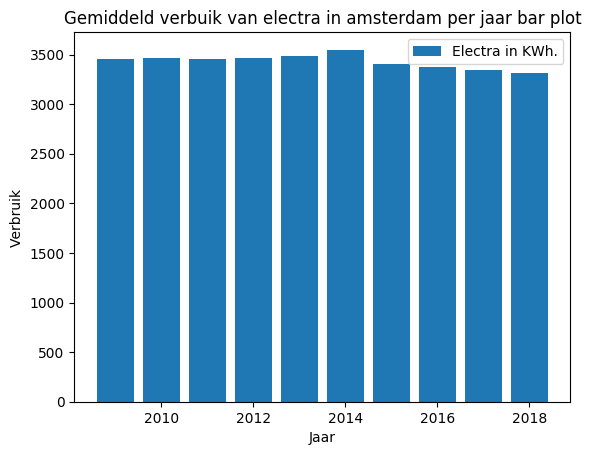
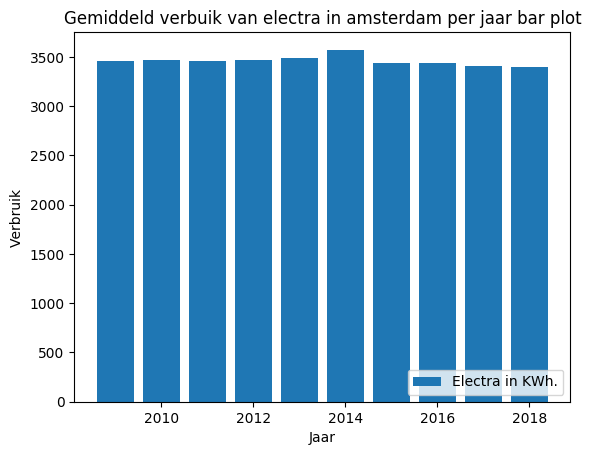
Scale plots by teruglevering and add opgewekte energy plot

diff --git a/python/process_yearly_energy.py b/python/process_yearly_energy.py
@@ -9,6 +9,8 @@ data_path = get_data_path('processed')
 with open(data_path + '/average_yearly_elk_usage_2009_2018.pickle', 'rb') as fl:
     elc_data = pl.load(fl)
 
+with open(data_path + '/scaled_average_yearly_elk_usage_2009_2018.pickle', 'rb') as fl:
+    scaled_elc_data = pl.load(fl)
 
 with open(data_path + '/average_yearly_gas_usage_2009_2018.pickle', 'rb') as fl:
     gas_data = pl.load(fl)
@@ -48,15 +50,16 @@ def save_dict_bar_plot(dict_list, title, plot_names_list, axis_labels):
         plt.bar(x, y, label = plot_names_list[i])
     plt.xlabel(axis_labels[0])
     plt.ylabel(axis_labels[1])
-    plt.legend()
+    plt.legend(loc = 'lower right')
     plt.title(title)
     plt.savefig(save_location + 'week2/' + title, bbox_inches='tight')
     plt.close()
 
 # example usage
-# save_dict_bar_plot([elc_data, gas_data], 'Gemiddeld verbuik van gas en electra in amsterdam per jaar bar plot', ['Electra in KWh', 'Gas in m^3'], ['Jaar', 'Verbruik'])
+# save_dict_bar_plot([scaled_elc_data, gas_data], 'Gemiddeld verbuik van gas en electra in amsterdam per jaar bar plot', ['Electra in KWh', 'Gas in m^3'], ['Jaar', 'Verbruik'])
 # save_dict_bar_plot([gas_data], 'Gemiddeld verbuik van gas in amsterdam per jaar bar plot', ['Gas in m^3'], ['Jaar', 'Verbruik'])
-# save_dict_bar_plot([elc_data], 'Gemiddeld verbuik van electra in amsterdam per jaar bar plot', ['Electra in KWh.'], ['Jaar', 'Verbruik'])
+# save_dict_bar_plot([scaled_elc_data], 'Gemiddeld verbuik van electra in amsterdam per jaar bar plot', ['Electra in KWh.'], ['Jaar', 'Verbruik'])
+# save_dict_bar_plot([scaled_elc_data, elc_data], 'Gemiddeld verbuik en levering van electra in amsterdam per jaar', ['Electra totaal','Electra geleverd'], ['Jaar', 'Verbruik electra KWh'])
 
 
 def save_hist_plot(data_name, title, x_label):
@@ -74,11 +77,11 @@ def save_hist_plot(data_name, title, x_label):
     plt.savefig(save_location + 'week2/' + title, bbox_inches='tight')    
     plt.close()
 
-# save_hist_plot('elk_per_aansluiting2018.pickle', 'Electra per aansluiting 2018', 'Verbruik per aansluiting in KWh')
+# save_hist_plot('elk_per_aansluiting2018.pickle', 'Electra geleverd per aansluiting 2018', 'Geleverde electra per aansluiting in KWh')
 # save_hist_plot('gas_per_aansluiting2018.pickle', 'Gas verbruik per aansluiting 2018', 'Verbruik per aansluiting in m^3')
 
 # logarithm of consumption
-# save_hist_plot('log_elk_per_aansluiting2018.pickle', 'Logaritme electra per aansluiting 2018', 'log(verbruik) per aansluiting in KWh')
+# save_hist_plot('log_elk_per_aansluiting2018.pickle', 'Logaritme geleverde electra per aansluiting 2018', 'log(geleverd) per aansluiting in KWh')
 # save_hist_plot('log_gas_per_aansluiting2018.pickle', 'Logaritme gas verbruik per aansluiting 2018', 'log(verbruik) per aansluiting in m^3')
 
 def plot_two_scales(dict_one, dict_two, labels):
@@ -89,7 +92,7 @@ def plot_two_scales(dict_one, dict_two, labels):
     x_r = np.array(x_r) - 1
     fig, ax1 = plt.subplots()
     
-    ax1.plot(x_l, y_l, 'b-')
+    ax1.bar(x_l, y_l)
     ax1.set_xlabel('year')
     # Make the y-axis label, ticks and tick labels match the line color.
     ax1.set_ylabel(labels[0], color='b')
@@ -104,8 +107,16 @@ def plot_two_scales(dict_one, dict_two, labels):
     plt.title('Gemiddelde temperatuur en gasverbruik 2008 - 2017')
     plt.show()
 
+def plot_difference(dict_one, dict_two, title, plot_names, axis):
+    difference = {}
+    for key in dict_one:
+        difference[key] = dict_one[key] - dict_two[key]
+    save_dict_bar_plot([difference], title, plot_names, axis)
+
+
 with open(data_path + '/gemiddelde_temperatuur_2008_2017.pickle', 'rb') as fl:
     temp_data = pl.load(fl)
 
+plot_difference(scaled_elc_data, elc_data, "Gemiddelde Opgewekte energy per jaar", ["Verschil electra totaal min geleverd"], ["Jaar", "Opgewekte electra KWh"])
 
-plot_two_scales(temp_data, gas_data, ['Jaarlijks gemiddelde temperatuur Schiphol graden Celcius','Jaarlijks gemiddeld gas verbruik Amsterdam in m^3'])
+# plot_two_scales(temp_data, gas_data, ['Jaarlijks gemiddelde temperatuur Schiphol graden Celcius','Jaarlijks gemiddeld gas verbruik Amsterdam in m^3'])

diff --git a/python/process_data.py b/python/process_data.py
@@ -61,8 +61,22 @@ def get_yearly_power_consumption(year):
     with open(save_dir + '/elk_per_aansluiting' + year + '.pickle', 'wb') as out:
         pl.dump(elk_usage, out, protocol=pl.HIGHEST_PROTOCOL)
 
+def get_scaled_elec_usage():
+    electra = {}
+    for year in years:
+        el_pd = get_pandas('ELK' + '_' + year + '.csv') 
+        scaling = get_clean_data(list(el_pd['%Leveringsrichting']))
+        print(len(list(el_pd['%Leveringsrichting'])), scaling.shape, year)
+        el_averaged_sjv_scaled = np.array(el_pd['SJV'] * el_pd['Aantal Aansluitingen'] ) / (scaling / 100.)
+        el_averaged_sjv_scaled = (el_averaged_sjv_scaled) / el_pd['Aantal Aansluitingen'].sum()
+        electra[int(year)] = el_averaged_sjv_scaled.sum()
 
-get_yearly_power_consumption('2018')
+    with open(save_dir + '/scaled_average_yearly_elk_usage_2009_2018.pickle', 'wb') as out:
+        pl.dump(electra, out, protocol=pl.HIGHEST_PROTOCOL)
+
+# get_scaled_elec_usage()
+
+# get_yearly_power_consumption('2018')
 
 
 def get_average_yearly_temperature():
@@ -87,5 +101,5 @@ def get_average_yearly_temperature():
     with open(save_dir + '/gemiddelde_temperatuur_2008_2017' + '.pickle', 'wb') as out:
         pl.dump(data_out, out, protocol=pl.HIGHEST_PROTOCOL)
 
-process_average_yearly_gas_elektra()
-get_average_yearly_temperature()
+# process_average_yearly_gas_elektra()
+# get_average_yearly_temperature()

diff --git a/python/csv_utils.py b/python/csv_utils.py
@@ -21,10 +21,10 @@ def get_clean_data(data):
     '''
     float_array = np.zeros(len(data))
     index = 0
-    for element in data:
-        if (type(element) == str):
+    for fl in data:
+        if (type(fl) == str):
             # if its a string
-            fl = element.replace(',', '.')
+            fl = fl.replace(',', '.')
         try:
             fl = float(fl)
         except:
